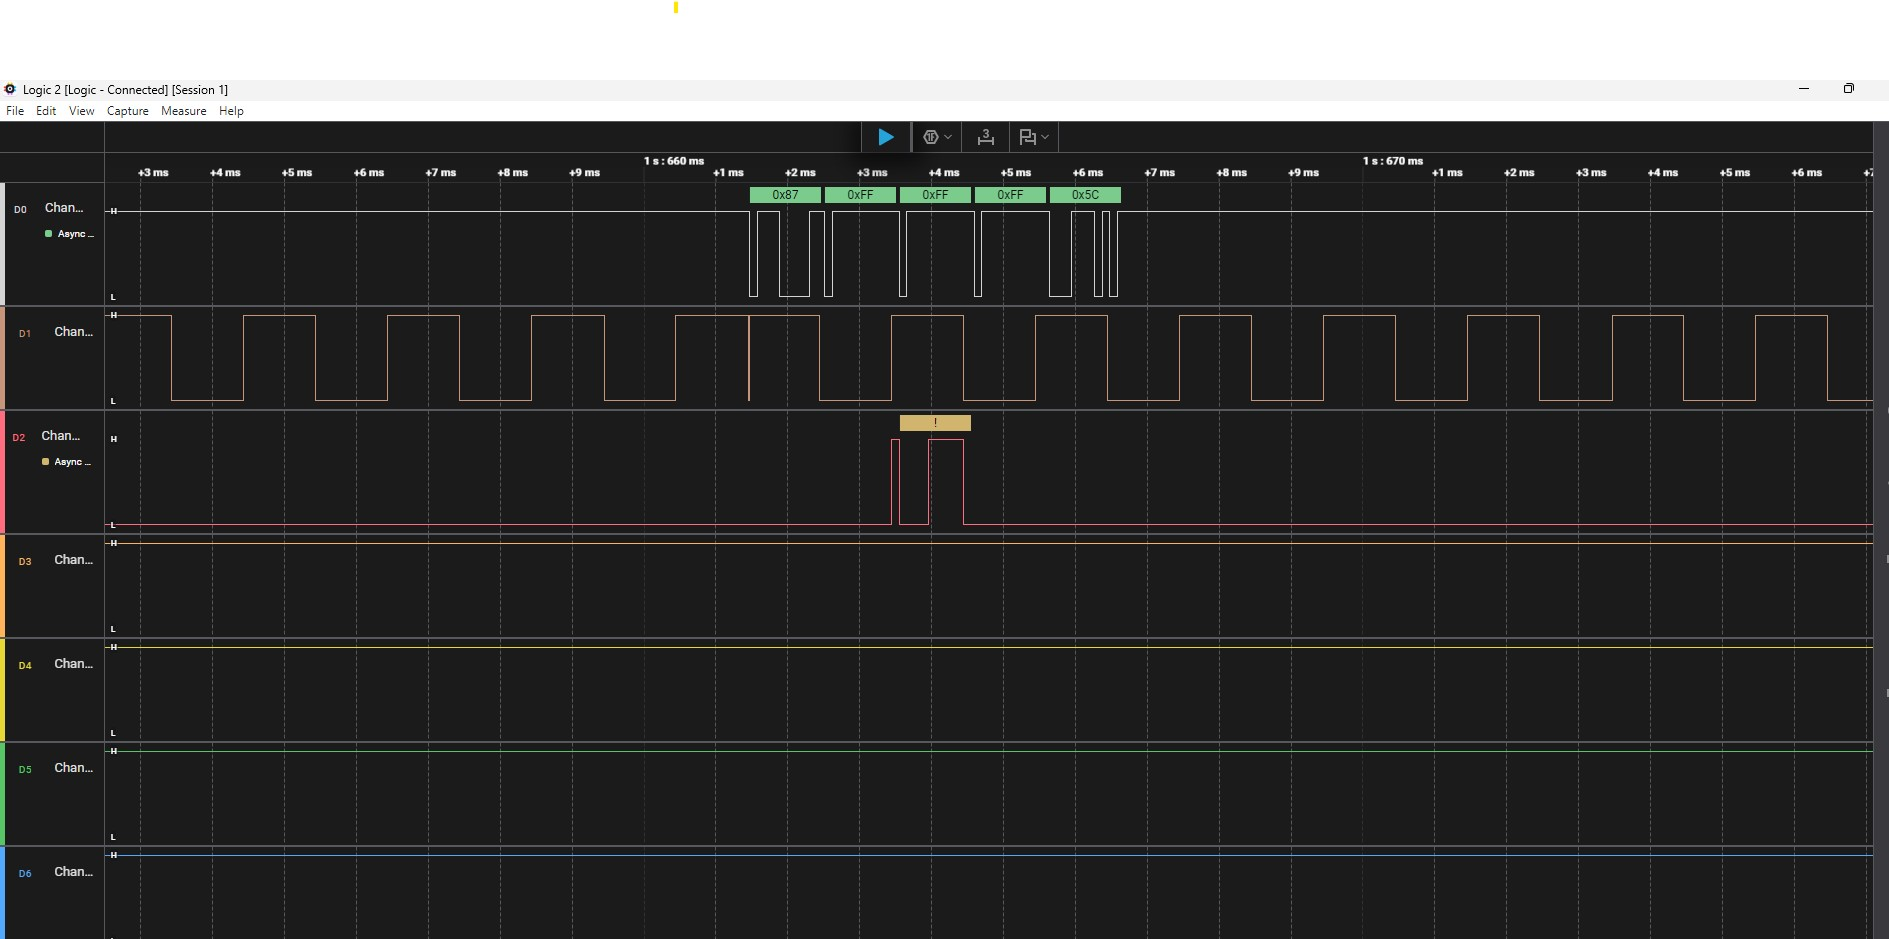
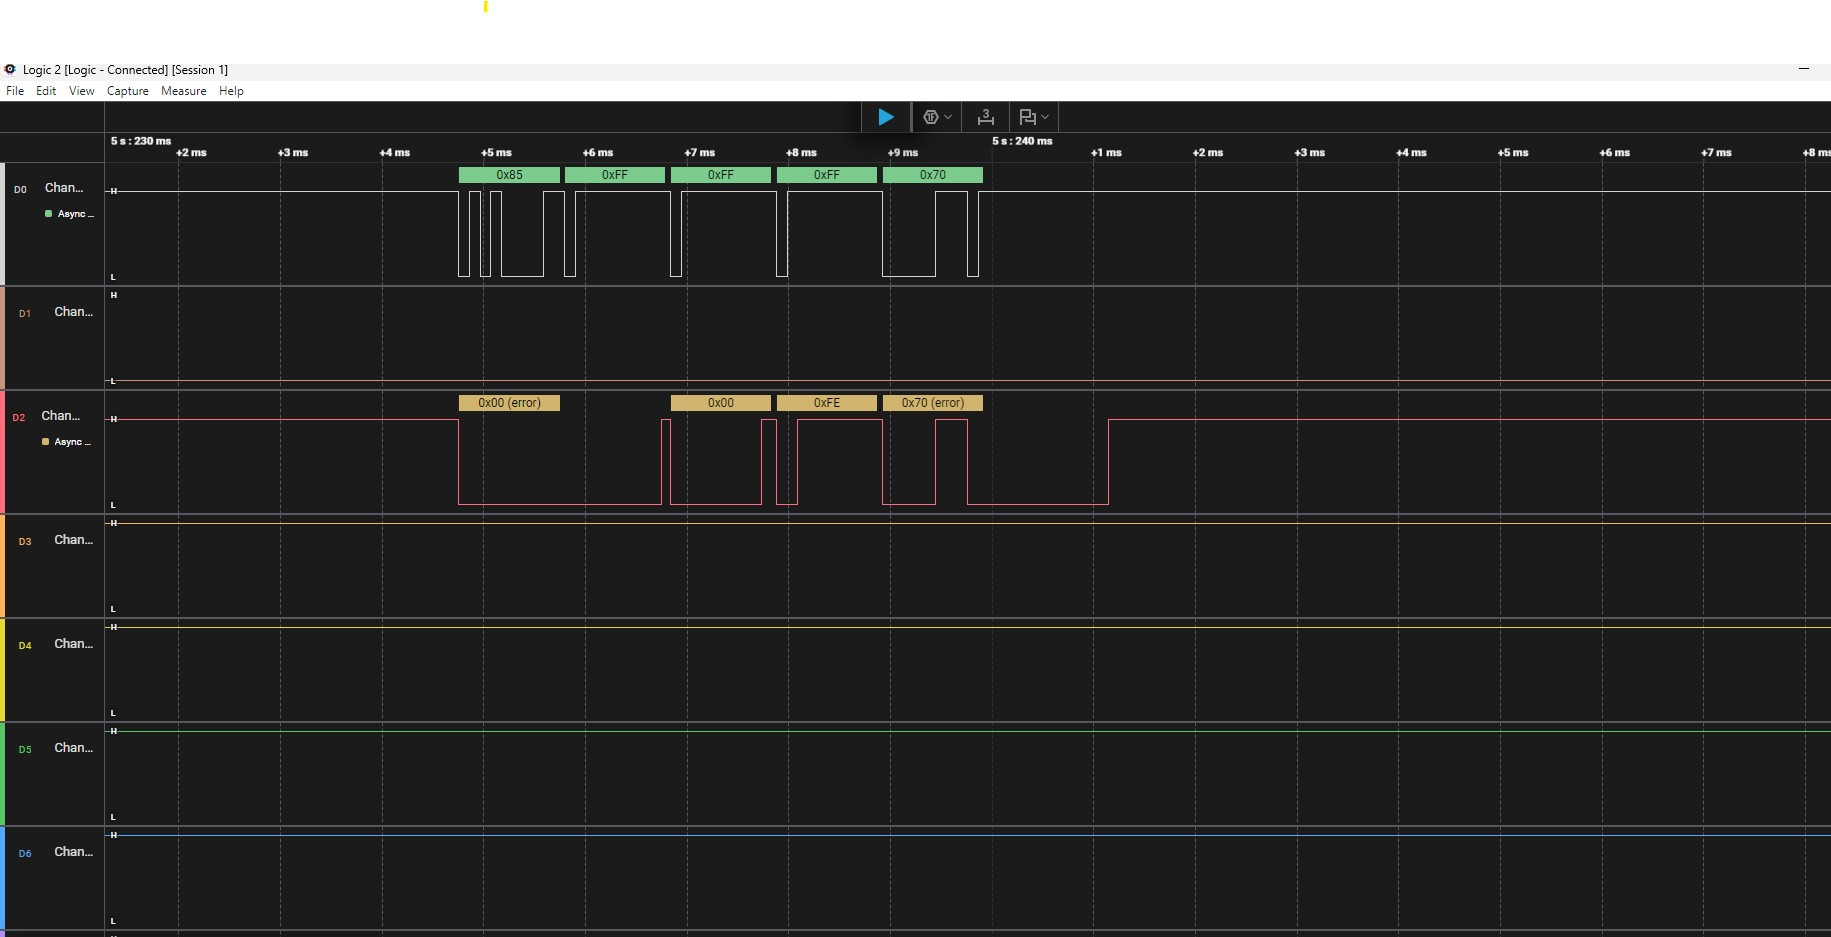
Chip select problem solved

Changed region(s): [[0.0, 0.0619, 1.0, 1.0], [0.1245, 0.3095, 0.249, 0.3404]]

diff --git a/SMU_Code/Core/BSW/HAL/energy_meter_hal/energy_meter_hal.h b/SMU_Code/Core/BSW/HAL/energy_meter_hal/energy_meter_hal.h
@@ -151,12 +151,12 @@
  * @brief Structure to hold STPM34 energy measurement data
  */
 typedef struct {
-    int32_t ch1_active_energy;      /**< Channel 1 active energy (Wh) */
-    int32_t ch1_reactive_energy;    /**< Channel 1 reactive energy (VARh) */
-    int32_t ch1_apparent_energy;    /**< Channel 1 apparent energy (VAh) */
-    int32_t ch2_active_energy;      /**< Channel 2 active energy (Wh) */
-    int32_t ch2_reactive_energy;    /**< Channel 2 reactive energy (VARh) */
-    int32_t ch2_apparent_energy;    /**< Channel 2 apparent energy (VAh) */
+	int32_t ch1_active_energy; /**< Channel 1 active energy (Wh) */
+	int32_t ch1_reactive_energy; /**< Channel 1 reactive energy (VARh) */
+	int32_t ch1_apparent_energy; /**< Channel 1 apparent energy (VAh) */
+	int32_t ch2_active_energy; /**< Channel 2 active energy (Wh) */
+	int32_t ch2_reactive_energy; /**< Channel 2 reactive energy (VARh) */
+	int32_t ch2_apparent_energy; /**< Channel 2 apparent energy (VAh) */
 } StpmEnergyData;
 
 /**
@@ -164,12 +164,12 @@ typedef struct {
  * @brief Structure to hold STPM34 instantaneous power data
  */
 typedef struct {
-    int32_t ch1_active_power;       /**< Channel 1 active power (W) */
-    int32_t ch1_reactive_power;     /**< Channel 1 reactive power (VAR) */
-    int32_t ch1_apparent_power;     /**< Channel 1 apparent power (VA) */
-    int32_t ch2_active_power;       /**< Channel 2 active power (W) */
-    int32_t ch2_reactive_power;     /**< Channel 2 reactive power (VAR) */
-    int32_t ch2_apparent_power;     /**< Channel 2 apparent power (VA) */
+	int32_t ch1_active_power; /**< Channel 1 active power (W) */
+	int32_t ch1_reactive_power; /**< Channel 1 reactive power (VAR) */
+	int32_t ch1_apparent_power; /**< Channel 1 apparent power (VA) */
+	int32_t ch2_active_power; /**< Channel 2 active power (W) */
+	int32_t ch2_reactive_power; /**< Channel 2 reactive power (VAR) */
+	int32_t ch2_apparent_power; /**< Channel 2 apparent power (VA) */
 } StpmPowerData;
 
 /**
@@ -177,10 +177,10 @@ typedef struct {
  * @brief Structure to hold STPM34 RMS voltage and current data
  */
 typedef struct {
-    uint32_t ch1_voltage_rms;       /**< Channel 1 RMS voltage (mV) */
-    uint32_t ch1_current_rms;       /**< Channel 1 RMS current (mA) */
-    uint32_t ch2_voltage_rms;       /**< Channel 2 RMS voltage (mV) */
-    uint32_t ch2_current_rms;       /**< Channel 2 RMS current (mA) */
+	uint32_t ch1_voltage_rms; /**< Channel 1 RMS voltage (mV) */
+	uint32_t ch1_current_rms; /**< Channel 1 RMS current (mA) */
+	uint32_t ch2_voltage_rms; /**< Channel 2 RMS voltage (mV) */
+	uint32_t ch2_current_rms; /**< Channel 2 RMS current (mA) */
 } StpmRmsData;
 
 /* ========================================================================

diff --git a/SMU_Code/Core/ASW/energy_meters/energy_meters.c b/SMU_Code/Core/ASW/energy_meters/energy_meters.c
@@ -77,6 +77,7 @@ void energy_meters_handler(void)
 
     case ENU_EM_SEND_READ_REQ:
         /* Send read request (chip select handled by DLL layer) */
+    	gCurrentRegister = 0x05;
         energy_meters_send_read_req(gCurrentRegister);
 
         /* Reset timeout counter */
@@ -93,7 +94,7 @@ void energy_meters_handler(void)
             if (status == ENU_EM_STATUS_SUCCESS)
             {
                 /* Valid response received */
-                energy_meter_dll_transaction_end();
+               // energy_meter_dll_transaction_end();
 
                 /* Cycle through different registers */
                 gCurrentRegister++;
@@ -106,7 +107,7 @@ void energy_meters_handler(void)
             else if (status == ENU_EM_STATUS_TIMEOUT)
             {
                 /* Timeout occurred - end transaction and move to next register */
-                energy_meter_dll_transaction_end();
+               // energy_meter_dll_transaction_end();
 
                 /* Cycle through different registers */
                 gCurrentRegister++;

diff --git a/SMU_Code/Core/BSW/SVC/COM/MDM/MdmSrv.c b/SMU_Code/Core/BSW/SVC/COM/MDM/MdmSrv.c
@@ -664,7 +664,6 @@ void mdmResProcess(void)
 	MDMTypeDef* mdm=getMdm();
 	//MBTypeDef* mbs=getMbs();
 	static int resFlag=0;
-	DB2_Toggle
 
 
 	if(3==MAC_MdmReciveData())//1==process_AT_command())
